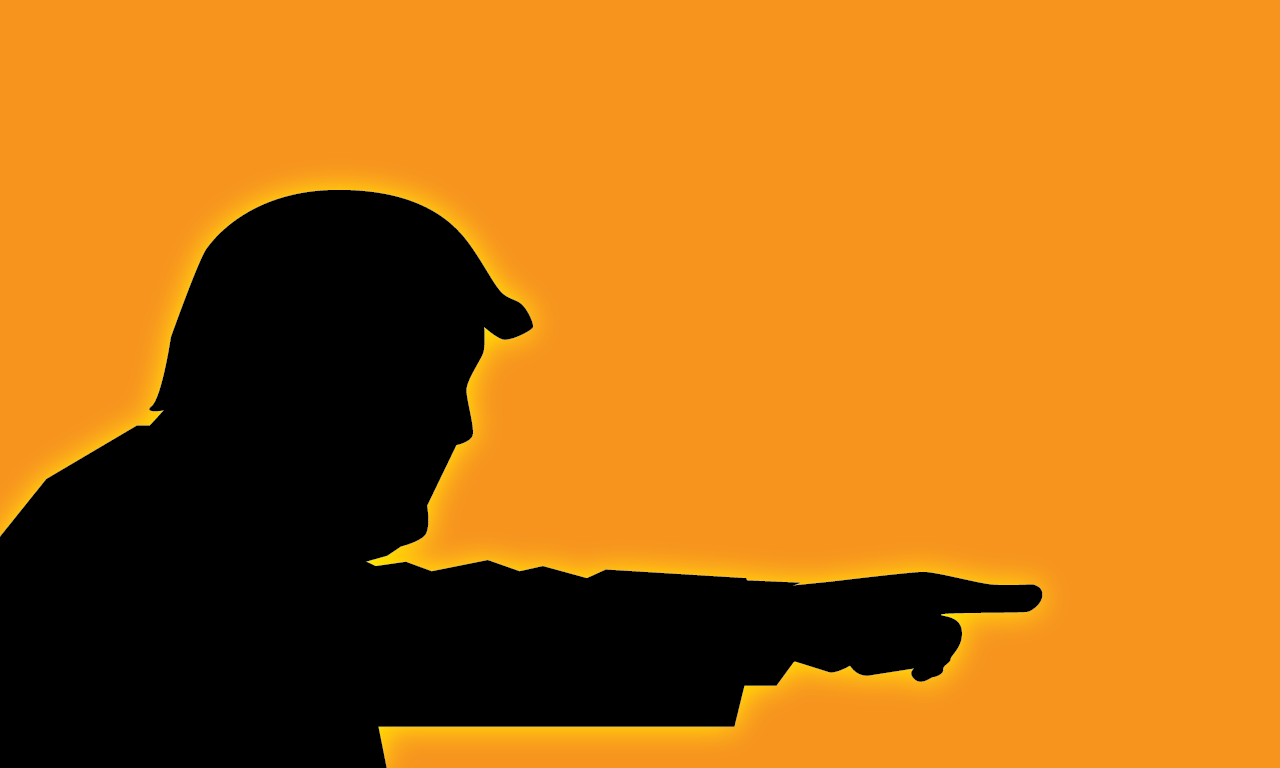
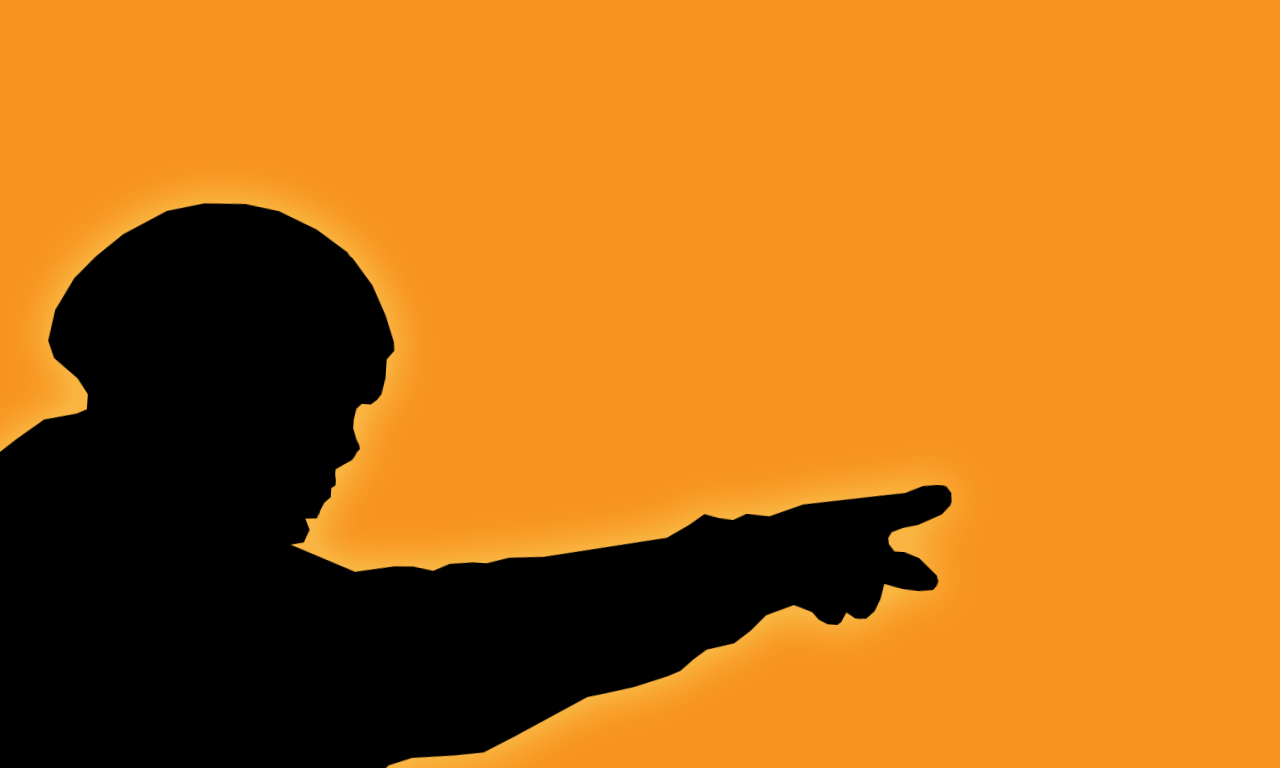
portfolio info expanded. Alien Invasion assets edited

Changed region(s): [[0.0, 0.2188, 0.8125, 1.0]]

diff --git a/src/components/Portfolio.tsx b/src/components/Portfolio.tsx
@@ -8,15 +8,53 @@ function Portfolio(): JSX.Element {
     
     return (<div style={style}>
         <ProjectContainer 
-            title="HeroForge (JS)"
+            title="HeroForge (JS/React) - (2020-2026)"
             src="src/assets/Heroforge001.png"
             href="https://www.heroforge.com/load_config%3D43360789/"
         >
-            
+            <p>
+                <a href='https://heroforge.com/content/'>Hero Forge</a> is a web-based platform that allows users to design highly customizable tabletop miniatures in 3D. 
+                Users can create characters by adjusting a wide range of features such as body type, clothing, gear, poses, and facial details, 
+                then view and render them directly in a browser-based 3D editor. Once a design is complete, it can be ordered as a physical 
+                3D-printed miniature or downloaded digitally for use in virtual tabletop games.
+            </p>
+            General roles on the project:
+            <ul>
+                <li>Developed and maintained features for a custom browser-based 3D rendering engine using WebGL,TypeScript/JavaScript, HTML, CSS, and Python</li>
+                <li>Contributed to both front-end interface logic and lower-level engine, rendering, and tooling systems</li>
+                <li>Ensured long-term backward compatibility of user save data by carefully designing and evolving systems to avoid breaking existing content</li>
+                <li>Implemented custom shaders to control lighting, materials, and visual appearance within the web-based 3D booth.</li>
+                <li>Collaborated with artists and designers to improve UX usability and visual fidelity of character customization tools.</li>
+            </ul>
+            <br></br>
+            Notable Large Project Contributions:
+            <br></br>
+            <a href='https://www.youtube.com/watch?v=3DmjJDi-hug'>Kitbash:</a>
+            <ul>
+                <li>
+                    Implemented the ability to arbitrarily place and manipulate any 3D asset on the site
+                </li>
+                <li>
+                    Rebuilt our 3D manipulator tools for a more intuitive user controls when working directly in the 3D space.
+                </li>
+                <li>
+                    Cross-built the supportive 2D UI functionality that also allows for the same full asset manipulation from a simple UI panel.
+                </li>
+            </ul>
+            <a href='https://www.youtube.com/watch?v=MzaMsYxnQXA'>Face Customizer:</a>
+            <ul>
+                <li>
+                    Improved UX functionality of the tool by creating 3D "pads" on the face to highlight which regions of the face are edited.
+                </li>
+                <li>
+                    Added 3D manipulation functionality where the user can grab these "pads" with their cursor to deform the facial regions in realtime 3D
+                </li>
+            </ul>
+           
         </ProjectContainer>
         {/* ------------------------------------------------------------------------------------------------------- */}
         <ProjectContainer 
-            title="Wacktory (C#)"
+            title="Wacktory (C#) - 2019"
             src="https://www.youtube.com/embed/bkwjrYXHHF0"
         >
             <p> <a href="https://www.wacktory.com/"> Wacktory™</a> is a new take on cooperative gameplay that bridges the gap between virtual reality and traditional couch co-op gaming. 
@@ -46,6 +84,19 @@ function Portfolio(): JSX.Element {
             title="Alien Invasion (JS) - 2017"
             src = "/games/alienInvasion/index.html"
         >
+            <p> Alien Invasion is a top-down, rogue-lite shooter where the player must escape the city while fighting waves of enemies. 
+                Built with the Phaser framework for JavaScript, Alien Invasion offers a fast paced shoot-em-up experience playable 
+                directly in-browser and is available to play below!
+            </p>
+            <p> Developed as a team of five at UCSC, we were tasked with creating a game whose theme relates to current events.
+                With the presidential election being the forefront of current events at the time, Alien Invasion is a satirical 
+                illustration of how many citizens perceived Donald Trump's approach to external affairs policies.
+            </p>
+            Roles on the project:
+            <li>Created the majority of art assets including the player, enemies, and environment.</li>
+            <li>Handled Level design and implementation of tilemap based functionality of displaying levels</li>
+            <li>Implemented some of the Functionality for weapon handling and tracking.</li>
+
 
         </ProjectContainer>
         {/* ------------------------------------------------------------------------------------------------------- */}
@@ -53,6 +104,13 @@ function Portfolio(): JSX.Element {
             title="Falling Up (JS) - 2017"
             src = "/games/fallingUp/EndlessRunnerGame/index.html"
         >
+            <p>
+            An endless runner game created as a solo project over the span of a week to familiarize myself with the Phaser 
+            framework for JavaScript. The level is procedurally generated from predefined segments and checks to ensure that 
+            every pattern is possible to overcome. Try to stay alive as long as possible by inverting gravity to avoid 
+            running/falling off the screen. The game is fully playable in-browser and is available to try below! 
+            *Artwork and sounds taken from opengameart.org
+            </p>
             
         </ProjectContainer>
         {/* ------------------------------------------------------------------------------------------------------- */}
@@ -60,18 +118,61 @@ function Portfolio(): JSX.Element {
             title="StarCraft II AI Bot (C++) - 2018"
             src="https://www.youtube.com/embed/1jSNsDg4DbE" 
         >
+            <p> Courtesy of Blizzard Entertainment, we utilized Starcraft II's open API to develop our very own Starcraft II bot. 
+                Using this API, we implemented our AI by employing a behavioral tree approach where our bot would prioritize tasks 
+                based upon what it knows about the game state at any given time. As Starcraft II is a game of imperfect 
+                information due to its "fog of war" mechanic for hiding enemy units out of the range of view, 
+                we taught our AI to seek out information in real-time to decide wether or not its better to attack, expand, defend, etc.
+            </p>
+
+            <p> We set out with the goal of having our AI beat Blizzard's easy bot and focused specifically on having our bot play as 
+                the Terran race to do so. In the end, our AI is able to confidently and consistently beat Blizzard's official bots 
+                set to medium difficulty. Our AI works on any map and against any opposing race with the only restriction being our 
+                bot must play the Terran race. Check it out in action below!
+            </p>
+            Roles on the project:
+            <li>Handled enemy base scouting procedure to learn where to attack.</li>
+            <li>Implemented combat unit micro play for fighting enemy's army which included advanced techniques such as stutter stepping for marines.</li>
         
         </ProjectContainer>
         {/* ------------------------------------------------------------------------------------------------------- */}
-        <ProjectContainer title="Recedence (GML) - 2017">
+        <ProjectContainer 
+            title="Recedence (GML) - 2017"
+            src="https://www.youtube.com/embed/b4rHiEosOH4"
+        >
+            Recedence is a simple combat-driven platformer built in Gamemaker Studio by a team of two as a means to practice 
+            game development in a team environment. While the game itself isn't anything impressive in its own light, the 
+            game served as a core foundation for learning git file management and splitting tasks between people.
+            <br></br>
+            <br></br>
+            Roles on the project:
+            <li>Artwork and level layout for all four levels.</li>
+            <li>AI pathing and combat towards the player.</li>
             
         </ProjectContainer>
         {/* ------------------------------------------------------------------------------------------------------- */}
-        <ProjectContainer title="Virus Assault (Blitz Basic) - 2015">
+        <ProjectContainer 
+            title="Virus Assault (Blitz Basic) - 2015"
+            src="https://www.youtube.com/embed/Rbgxp8KMgQc"
+        >
+            Developed with the help of two friends in high school as my first "complete" video game, Virus Assault is a top-down tower defense game where you play as an IT worker named "Bob" who must protect his system from the infiltrating viruses. Created for the 2015 Future Business Leaders of America Leadership Conference's state competition for the event "Computer Game & Simulation, our team showcased our game live in front of a panel of judges. Here, we achieved first place in the state of California over all the other competing schools. This qualified us to present at the National Leadership Conference in Chicago where only the top three teams from each state could advance. Out of the 75 teams who qualified and competed nationally, we placed fifth in the nation.
+
+            <li>I handled for all of the coding for this project as well as some of the artwork.</li>
             
         </ProjectContainer>
         {/* ------------------------------------------------------------------------------------------------------- */}
-        <ProjectContainer title="This Website (React/TS) - 2025">
+        <ProjectContainer 
+            title="This Website (React/TS) - 2026"
+            src="src/assets/thisWebsite.png"
+            >
+            <p>
+                I'm naturally inclined to explore how things work, and I aim to develop a deep understanding of every project I take on. 
+                For me, a finished product holds limited value if I don't fully understand the process behind its creation. With that mindset, 
+                I fully built this website myself from the ground. This allows me to maintain full ownership over both its design and implementation.
+            </p>
+            
+            <li>This website was built using HTML, CSS, TypeScript, and React, and bundled with Vite for fast development and optimized builds.</li>
+            
             
         </ProjectContainer>
     </div>)

diff --git a/src/components/Resume.tsx b/src/components/Resume.tsx
@@ -8,55 +8,74 @@ function Resume(): JSX.Element {
 
     return (
         <ProjectContainerWrapper style={style}>
-            Education <br/>
-            University of California, Santa Cruz 2019 <br/>
-            BS - Honors in Computer Science: Computer Game design <br/>
-            Relevant Courses in: Computer Graphics, Game AI, 3D Modeling/Animation, Game Systems,
-            Distributed Systems, Digital Audio, Mobile Applications <br/>
+            <h2>Education</h2>
+            University of California, Santa Cruz 2019
+            <ul>
+                <li>BS - Honors in Computer Science: Computer Game design</li>
+                <li>Relevant Courses in: Computer Graphics, Game AI, 3D Modeling/Animation, Game Systems,
+                    Distributed Systems, Digital Audio, Mobile Applications</li>
+            </ul>
 
+            {/*-------------------------------------------------------------*/}
 
-            {/*------------*/}<br/><br/>{/*------------*/}
+            <h2>Work Experience:</h2>
 
-            Work Experience <br/>
+            Software Engineer — Unannounced Game Project | 2024 - Present
+            <ul>
+                <li>Designed and implemented UI/UX systems for a game built around HeroForge-created miniatures. </li>
+                <li>Developed engine tools and workflows to support gameplay systems and content iteration. </li>
+                <li>Created shaders for visualizing gameplay elements (e.g., ground movement indicators, spatial feedback)</li>
+                <li>Collaborated with design and art teams to ensure intuitive player interactions and consistent visual language</li>
+                <li>Contributed to both front-end interface logic and lower-level rendering/tooling systems</li>
+            </ul>
 
-            Software Engineer - HeroForge | February 2020 - Present <br/>
+            Software Engineer - HeroForge | February 2020 - Present  
+            <ul>
+                <li>Built and maintained features within a custom browser-based 3D rendering engine for Hero Forge using WebGL,JavaScript,CSS,HTML, and some Python</li>
 
+                <li>Built and enhanced in-house engine tools to support content creation and real-time rendering workflows</li>
             
-            {/*------------*/}<br/><br/>{/*------------*/}
+                <li>Implemented custom shaders to control lighting, materials, and visual appearance within the web-based 3D booth</li>
+            
+                <li>Major contributor to the design and development of the kitbash system, enabling freeform manipulation and placement of 3D assets</li>
 
+                <li>Collaborated with artists and designers to improve UX usability and visual fidelity of character customization tools</li>
+                
+            </ul>
+            
+            {/*-------------------------------------------------------------*/}
 
-            Project Experience <br/>
+            <h2>Project Experience</h2>
 
             Wacktory | November 2018 - September 2019 <br/>
+            <ul>
+                <li>Acted as Lead Programmer and Technical Artist for a team of 12, implementing and
+                    overseeing the production of core game systems</li>
 
-            Acted as Lead Programmer and Technical Artist for a team of 12, implementing and
-                overseeing the production of core game systems <br/>
+                <li>Designed the game from the ground up, including early concepting, prototyping,
+                    core development, and polish</li>
 
-            Designed the game from the ground up, including early concepting, prototyping,
-                core development, and polish <br/>
+                <li>Implemented functionality for VR interactions and mechanics</li>
 
-            Implemented functionality for VR interactions and mechanics <br/>
+                <li>Engaged in Agile development cycles and led weekly scrum sessions and
+                    meetings where we discussed critical design goals and challenges</li>
 
-            Engaged in Agile development cycles and led weekly scrum sessions and
-                meetings where we discussed critical design goals and challenges <br/>
-
-            Developed shader systems from scratch that gives the game its cartoony feel <br/>
-
-
-            {/*------------*/}<br/><br/>{/*------------*/}
+                <li>Developed shader systems from scratch that gives the game its cartoony feel</li>
+            </ul>
 
 
             Project Butterfly - VR Research | August 2017 - March 2018 <br/>
+            <ul>
+                <li>Independently developed a rehabilitative VR Game for the HTC Vive using Unity and
+                    C#. The game provided real-time data on the performance of the user and served
+                    as a "rehabilitation" tool for people with physical limitations such as cerebral palsy.</li>
+                
+                <li>Performed formative evaluations/user testing and conducted interviews for Project
+                    Butterfly with consenting disabled users.</li>
 
-            Independently developed a rehabilitative VR Game for the HTC Vive using Unity and
-                C#. The game provided real-time data on the performance of the user and served
-                as a "rehabilitation" tool for people with physical limitations such as cerebral palsy <br/>
-
-            Performed formative evaluations/user testing and conducted interviews for Project
-                Butterfly with consenting disabled users <br/>
-
-            Collaborated with multiple Graduate students to develop and test our Unity-based VR
-                project <br/>
+                <li>Collaborated with multiple Graduate students to develop and test our Unity-based VR
+                    project.</li>
+            </ul>
 
         </ProjectContainerWrapper>
     )

diff --git a/src/components/Home.tsx b/src/components/Home.tsx
@@ -25,8 +25,8 @@ function Home(): JSX.Element {
         flexDirection: 'column',
         alignItems: 'center',
         justifyContent: 'center',
-        textAlign: 'center',
-        flex: '3 3', // flex-grow: 2, flex-shrink: 1, flex-basis: 300px
+        textAlign: 'justify',
+        flex: '3 3',
         minWidth: '300px',
     };
 
@@ -36,7 +36,7 @@ function Home(): JSX.Element {
         alignItems: 'center',
         justifyContent: 'center',
         textAlign: 'center',
-        flex: '2 2', // flex-grow: 1, flex-shrink: 1, flex-basis: 200px
+        flex: '2 2',
         minWidth: '200px',
     };
 
@@ -45,9 +45,22 @@ function Home(): JSX.Element {
             <ProjectContainerWrapper>
                 <div style={containerStyle}>
                     <div style={leftColumnStyle}>
-                        {testText1} 
-                        <br/><br/>
-                        {testText1}
+                        <p> Welcome to the personal website of Dustin Halsey. I am a software engineer with a background 
+                            in computer game design and a strong focus on building interactive, visually rich applications. 
+                            I graduated from the University of California, Santa Cruz with a Bachelor of Science in 
+                            Computer Science: Computer Game Design, and have spent the past several years working professionally 
+                            in the field, including six years as a software engineer at Hero Forge.
+                        </p>
+                        <p> As a developer, I enjoy working across the stack and taking projects from concept to fully realized 
+                            systems. While my foundation is in game development, I have broadened my work to include general 
+                            software engineering, web development, and real-time 3D applications. I'm especially drawn to 
+                            problems that involve both technical depth and user-facing interactivity, where performance, 
+                            design, and implementation all intersect.
+                        </p>
+                        <p>
+                            This site showcases my résumé, portfolio of professional and personal projects, and a collection 
+                            of experiments and side work. If you'd like to connect, feel free to reach out.
+                        </p>
                     </div>
                     <div style={rightColumnStyle}> 
                         <div style={{fontSize: 'var(--font-size-4xl)', lineHeight: 1}}>

diff --git a/public/games/alienInvasion/js/main.js b/public/games/alienInvasion/js/main.js
@@ -285,12 +285,12 @@ Great.prototype = {
   create: function() {
     game.add.image(0, 0, 'atlas2', 'scoreBg');
     //adds menu text
-     text = game.add.text(1280/2, 786/2, 'Make America Great Again.',
+     text = game.add.text(1280/2, 786/2, 'Lock and load.',
       {font: '40px Aldrich', fill: '#ffffff'});
      text.anchor.set(.5);
     text.alpha = 0;
     var tween = game.add.tween(text).to( { alpha: 1 }, 500, Phaser.Easing.Linear.None, true);
-    game.time.events.add(Phaser.Timer.SECOND * 3, fadeGreat, this);
+    game.time.events.add(Phaser.Timer.SECOND * 2, fadeGreat, this);
   },
   update: function() {
 
@@ -600,7 +600,7 @@ Win.prototype =
 		//adds text
 		var winTitle = game.add.text(80,80, 'You Survived!!!',
 			{font: '50px Aldrich', fill: '#ffffff'});
-		var winText = game.add.text(80,200, 'Has it been 4 years already?\n I guess we can elect someone new now.\n\n',
+		var winText = game.add.text(80,200, '',
 			{font: '25px Aldrich', fill: '#ffffff'});
 
         //adds a button to the win state

diff --git a/src/components/ProjectContainer.tsx b/src/components/ProjectContainer.tsx
@@ -15,7 +15,10 @@ const srcStyle: CSSProperties = {
     width: width,
     maxWidth: maxWidth,
     aspectRatio: 16/9,
-    border: 'none'
+    border: 'none',
+    /* center the contents */
+    display: 'block',
+    margin: '0 auto',
 }
 
 const linkStyle: CSSProperties = {

diff --git a/src/index.css b/src/index.css
@@ -10,6 +10,7 @@ html {
 
 body {
   background-color: transparent;
+  font-size: var(--font-size-lg);
 }
 canvas {
   position: fixed;
@@ -18,6 +19,10 @@ canvas {
   width: 100vw;
   height: 100vh;
   z-index: -999;
+}
+
+li {
+  text-indent: 0px;
 }
 
 :root {

diff --git a/src/components/ProjectContainerWrapper.tsx b/src/components/ProjectContainerWrapper.tsx
@@ -1,7 +1,7 @@
 import { CSSProperties, ReactNode, useEffect, useRef, useState } from "react";
 
 const defaultStyle: CSSProperties = {
-    display: 'flex',
+    display: 'block',
     flexDirection: 'column',
     alignItems: 'center',
     justifyContent: 'center',
@@ -17,6 +17,8 @@ const defaultStyle: CSSProperties = {
     width: 'calc(100% - 100px)',
     backdropFilter: 'blur(5px)',
     borderRadius: '0.5rem',
+    textAlign: 'justify',
+    textIndent: '30px',
 };
 
 interface ProjectContainerWrapperProps {

diff --git a/src/components/Carousel.tsx b/src/components/Carousel.tsx
@@ -1,8 +1,5 @@
 import { useCallback, useEffect, useState, KeyboardEvent } from "react"
 
-
-
-
 export default function Carousel() {
     const style= {
         width:'100%',

diff --git a/public/games/alienInvasion/js/Upgrade.js b/public/games/alienInvasion/js/Upgrade.js
@@ -42,7 +42,7 @@ function createLayout(prog) {
 		upgradeText.anchor.set(.5);
 		var costText = game.add.text((room_width/2)-140, 80, 'Cost', {font: '32px Aldrich', fill: "#000000"});
 		costText.anchor.set(.5);
-		var cardText = game.add.text(room_width/1.5, 80, 'Green Cards: ' + greencards, {font: '32px Aldrich', fill: "#000000"});
+		var cardText = game.add.text(room_width/1.5, 80, 'Money: ' + greencards, {font: '32px Aldrich', fill: "#000000"});
 		cardText.anchor.set(.5);
 		var cost;
 		var upgradeCost;